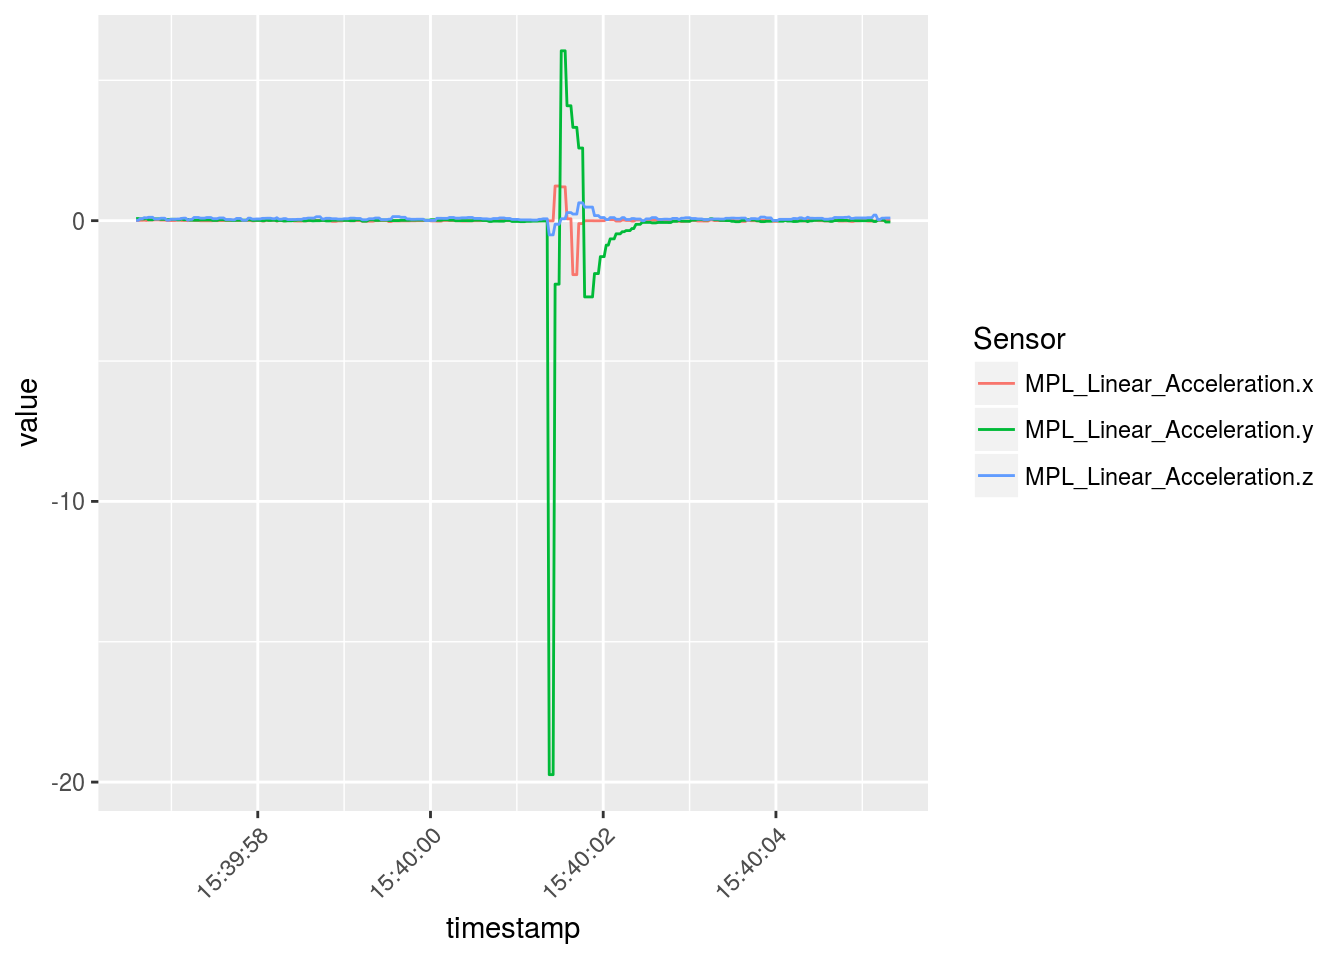
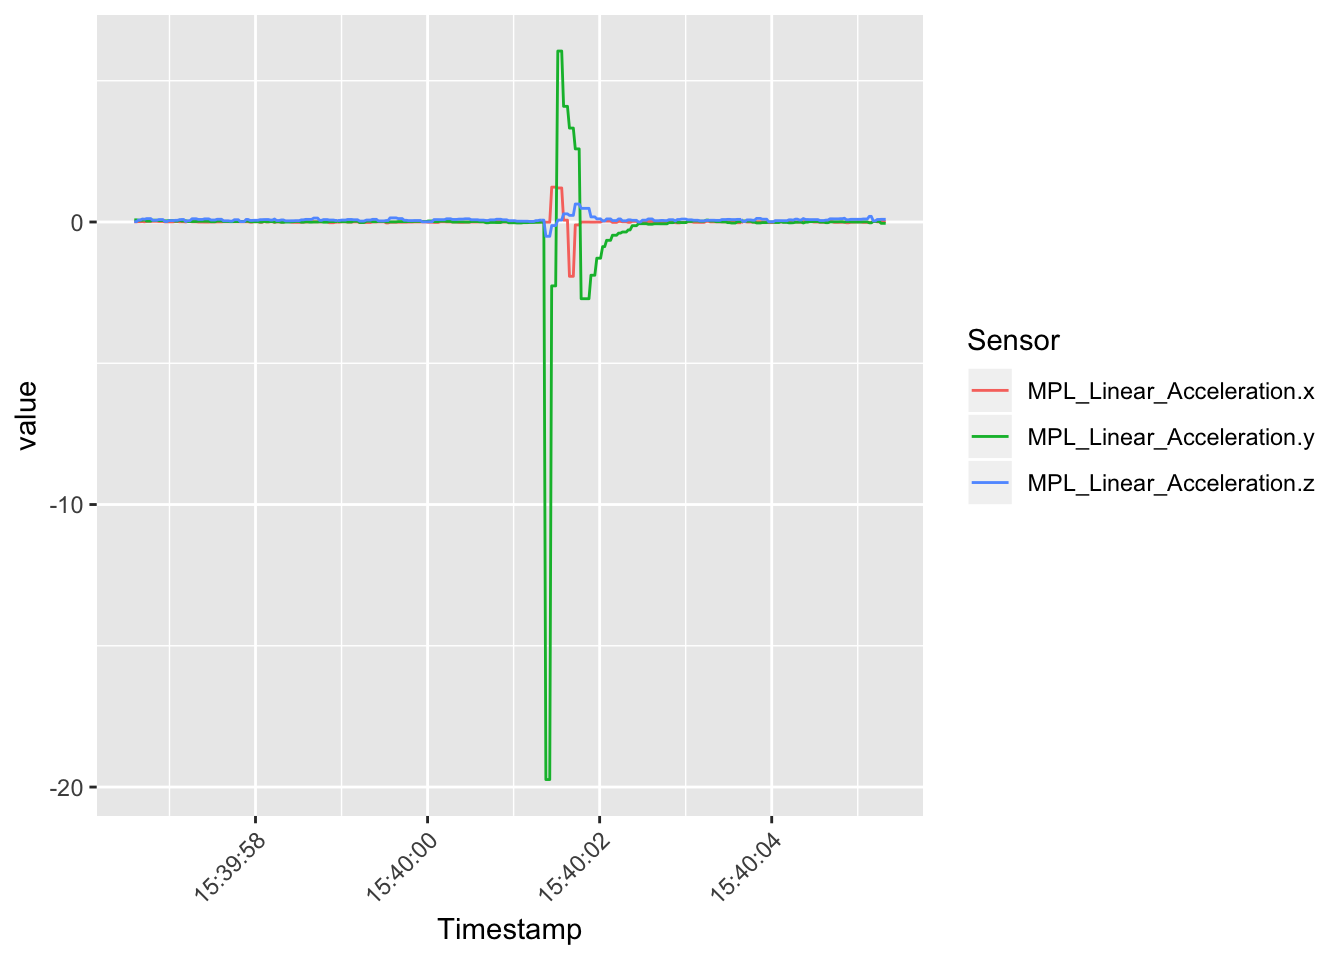
update TCP protocol to newest android app version

diff --git a/README.md b/README.md
@@ -1,11 +1,22 @@
 
 <!-- README.md is generated from README.Rmd. Please edit that file -->
-[![Build Status](https://travis-ci.org/JohannesFriedrich/HypeRIMU.svg?branch=master)](https://travis-ci.org/JohannesFriedrich/HypeRIMU) [![Build status](https://ci.appveyor.com/api/projects/status/lm7jn3t558yxveve?svg=true)](https://ci.appveyor.com/project/JohannesFriedrich/hyperimu) [![Coverage Status](https://codecov.io/gh/JohannesFriedrich/HypeRIMU/branch/master/graph/badge.svg)](https://codecov.io/gh/JohannesFriedrich/HypeRIMU) [![Project Status: Active – The project has reached a stable, usable state and is being actively developed.](http://www.repostatus.org/badges/latest/active.svg)](http://www.repostatus.org/#active)
 
-HypeRIMU is a **R**-package for reading sensor data from the Android app [HyperIMU](https://play.google.com/store/apps/details?id=com.ianovir.hyper_imu).
+[![Build
+Status](https://travis-ci.org/JohannesFriedrich/HypeRIMU.svg?branch=master)](https://travis-ci.org/JohannesFriedrich/HypeRIMU)
+[![Build
+status](https://ci.appveyor.com/api/projects/status/lm7jn3t558yxveve?svg=true)](https://ci.appveyor.com/project/JohannesFriedrich/hyperimu)
+[![Coverage
+Status](https://codecov.io/gh/JohannesFriedrich/HypeRIMU/branch/master/graph/badge.svg)](https://codecov.io/gh/JohannesFriedrich/HypeRIMU)
+[![Project Status: Active – The project has reached a stable, usable
+state and is being actively
+developed.](http://www.repostatus.org/badges/latest/active.svg)](http://www.repostatus.org/#active)
 
-Installation
-============
+HypeRIMU is an **R**-package for reading sensor data from the Android
+app
+[HyperIMU](https://play.google.com/store/apps/details?id=com.ianovir.hyper_imu).
+Supported are transfers via TCP and File in version v.3.0.4.4.
+
+# Installation
 
 ``` r
 if(!require("devtools"))
@@ -13,45 +24,62 @@ if(!require("devtools"))
 devtools::install_github("JohannesFriedrich/HypeRIMU")
 ```
 
-Motivation
-==========
+# Motivation
 
-Modern smartphones include a lot of sensors, e.g. for gravity or linear acceleration. Some apps provide the data collected from these sensors. One famous android app is "HyperIMU" (IMU: Inertial measurement unit). There are other apps available, but HyperIMU has some advantages:
+Modern smartphones include a lot of sensors, e.g. for gravity or linear
+acceleration. Some apps provide the data collected from these sensors.
+One famous android app is “HyperIMU” (IMU: Inertial measurement unit).
+There are other apps available, but HyperIMU has some advantages:
 
--   Choose which sensor data should be collected
--   Choose different streaming protocols: SD-card (locally on the smarphone), UDP, or TCP
--   The sampling rate can be adjusted
+  - Choose which sensor data should be collected
+  - Choose different streaming protocols: SD-card (locally on the
+    smarphone), UDP, or TCP
+  - The sampling rate can be adjusted
 
-The **R**-package HypeRIMU provides some handy functions to visualise sensor data. Different streaming protocolls are supported (a local .csv file and TCP).
+The **R**-package HypeRIMU provides some handy functions to visualise
+sensor data. Different streaming protocolls are supported (a local .csv
+file and TCP).
 
-Usage
-=====
+# Usage
 
-For using the smartphone app, see [HIMUServer](https://github.com/ianovir/HIMUServer/) and [HyperIMU Android](https://play.google.com/store/apps/details?id=com.ianovir.hyper_imu&hl=de) and install the app on your smartphone.
+For using the smartphone app, see
+[HIMUServer](https://github.com/ianovir/HIMUServer/) and [HyperIMU
+Android](https://play.google.com/store/apps/details?id=com.ianovir.hyper_imu&hl=de)
+and install the app on your smartphone.
 
 ### Read sensor data
 
-Until now two different methods to read the sensor data are supported: TCP and a local file.
+Until now two different methods to read the sensor data are supported:
+TCP and a local file.
 
 #### TCP
 
-The TCP protocol is also supported. Using this method needs to know your IP address to sumbit in the smartphone app, see [HIMUServer](https://github.com/ianovir/HIMUServer/).
+The TCP protocol is also supported. Using this method needs to know your
+IP address to sumbit in the smartphone app, see
+[HIMUServer](https://github.com/ianovir/HIMUServer/). It´s recommended
+to submit the names of the sensors, see setting in the Android app
+HyperIMU.
 
 ``` r
-library(HypeRIMU)
 data <- execute_TCP(port = 5555)
 ```
 
 #### File
 
-The recommended way to read the data is to save the records on your smartphone and submit them locally to your PC as a .csv file. The advantage from this method is the appropriation of sensor names.
+The recommended way to read the data is to save the records on your
+smartphone and submit them locally to your PC as a .csv file. The
+advantage from this method is the appropriation of sensor names.
 
-The following code shows an example of using a local file. The file can be imported via the function `execute_file()`. If your data provide a `timestamp`, choose `TRUE` for the argument `timestamp`. The functions tries to guess if a timestamp is available even when you set the `timestamp` argument wrong.
+The following code shows an example of using a local file. The file can
+be imported via the function `execute_file()`. If your data provide a
+`timestamp`, choose `TRUE` for the argument `timestamp`. The functions
+tries to guess if a timestamp is available even when you set the
+`timestamp` argument wrong.
 
-When a timestamp is available in the file, the function changes the UNIX format to as POSIXct format.
+When a timestamp is available in the file, the function changes the UNIX
+format to as POSIXct format.
 
 ``` r
-library(HypeRIMU)
 library(magrittr)
 
 data <- system.file('extdata', 'short_y_impulse.csv', package = 'HypeRIMU') %>% 
@@ -62,7 +90,10 @@ data <- system.file('extdata', 'short_y_impulse.csv', package = 'HypeRIMU') %>%
 
 ### Analyse sensor data
 
-HypeRIMU provides a function to extract some specific sensor data, see next code. When a sumbitted `sensorName` is not available in the `data`, an error message is printed.
+HypeRIMU provides a function to extract some specific sensor data, see
+next code. When a sumbitted `sensorName` is not available in the `data`,
+an error message is
+printed.
 
 ``` r
 MPL_Accelerometer <- get_specificSensor(data, sensorName = "MPL_Accelerometer")
@@ -72,16 +103,18 @@ MPL_Linear_Acceleration <- get_specificSensor(data, sensorName = "MPL_Linear_Acc
 
 ### Plot sensor data
 
-Visulasing the data is one of the main advantages of this **R**-package. With some extra libraries a nice plot can be created in just a few lines. NOTE: It is recommended to use data with a timestamp.
+Visulasing the data is one of the main advantages of this **R**-package.
+With some extra libraries a nice plot can be created in just a few
+lines. NOTE: It is recommended to use data with a timestamp.
 
 ``` r
 library(ggplot2)
 library(reshape2)
 library(scales)
 
-melt(MPL_Linear_Acceleration, id.vars = "timestamp", variable.name = "Sensor") %>% 
+melt(MPL_Linear_Acceleration, id.vars = "Timestamp", variable.name = "Sensor") %>% 
 
-ggplot(aes(x = timestamp, y = value, color = Sensor)) + 
+ggplot(aes(x = Timestamp, y = value, color = Sensor)) + 
   geom_line() +
   theme(axis.text.x = element_text(angle = 45, hjust = 1)) + 
   scale_x_datetime(labels = date_format("%H:%M:%S", tz = Sys.timezone()))
@@ -90,31 +123,35 @@ ggplot(aes(x = timestamp, y = value, color = Sensor)) +
 <img src="README_figs/README-plot_sensor_data_1-1.png" width="672" style="display: block; margin: auto;" />
 
 ``` r
-MPL_Accelerometer_melt <- melt(MPL_Accelerometer, id.vars = "timestamp", variable.name = "Sensor") %>% 
+MPL_Accelerometer_melt <- melt(MPL_Accelerometer, id.vars = "Timestamp", variable.name = "Sensor") %>% 
 
-ggplot(aes(x = timestamp, y = value, color = Sensor)) + 
+ggplot(aes(x = Timestamp, y = value, color = Sensor)) + 
   geom_line() +
   theme(axis.text.x = element_text(angle = 45, hjust = 1)) + 
   scale_x_datetime(labels = date_format("%H:%M:%S", tz = Sys.timezone()))  
 ```
 
-Related projects
-================
+# Related projects
 
--   [HIMUServer](https://github.com/ianovir/HIMUServer/)
--   [HyperIMU Android](https://play.google.com/store/apps/details?id=com.ianovir.hyper_imu)
--   [Android API](https://developer.android.com/guide/topics/sensors/index.html)
+  - [HIMUServer](https://github.com/ianovir/HIMUServer/)
+  - [HyperIMU
+    Android](https://play.google.com/store/apps/details?id=com.ianovir.hyper_imu)
+  - [Android
+    API](https://developer.android.com/guide/topics/sensors/index.html)
 
-To Do
-=====
+# To Do
 
--   support UDP stream
--   make examples
--   write function to get IP adress of server
+  - support UDP stream
+  - make examples
+  - write function to get IP adress of server
 
-License
-=======
+# License
 
-This program is free software: you can redistribute it and/or modify it under the terms of the GNU General Public License as published by the Free Software Foundation, either version 3 of the License, or any later version.
+This program is free software: you can redistribute it and/or modify it
+under the terms of the GNU General Public License as published by the
+Free Software Foundation, either version 3 of the License, or any later
+version.
 
-This program is distributed in the hope that it will be useful, but WITHOUT ANY WARRANTY; without even the implied warranty of MERCHANTABILITY or FITNESS FOR A PARTICULAR PURPOSE.
+This program is distributed in the hope that it will be useful, but
+WITHOUT ANY WARRANTY; without even the implied warranty of
+MERCHANTABILITY or FITNESS FOR A PARTICULAR PURPOSE.
